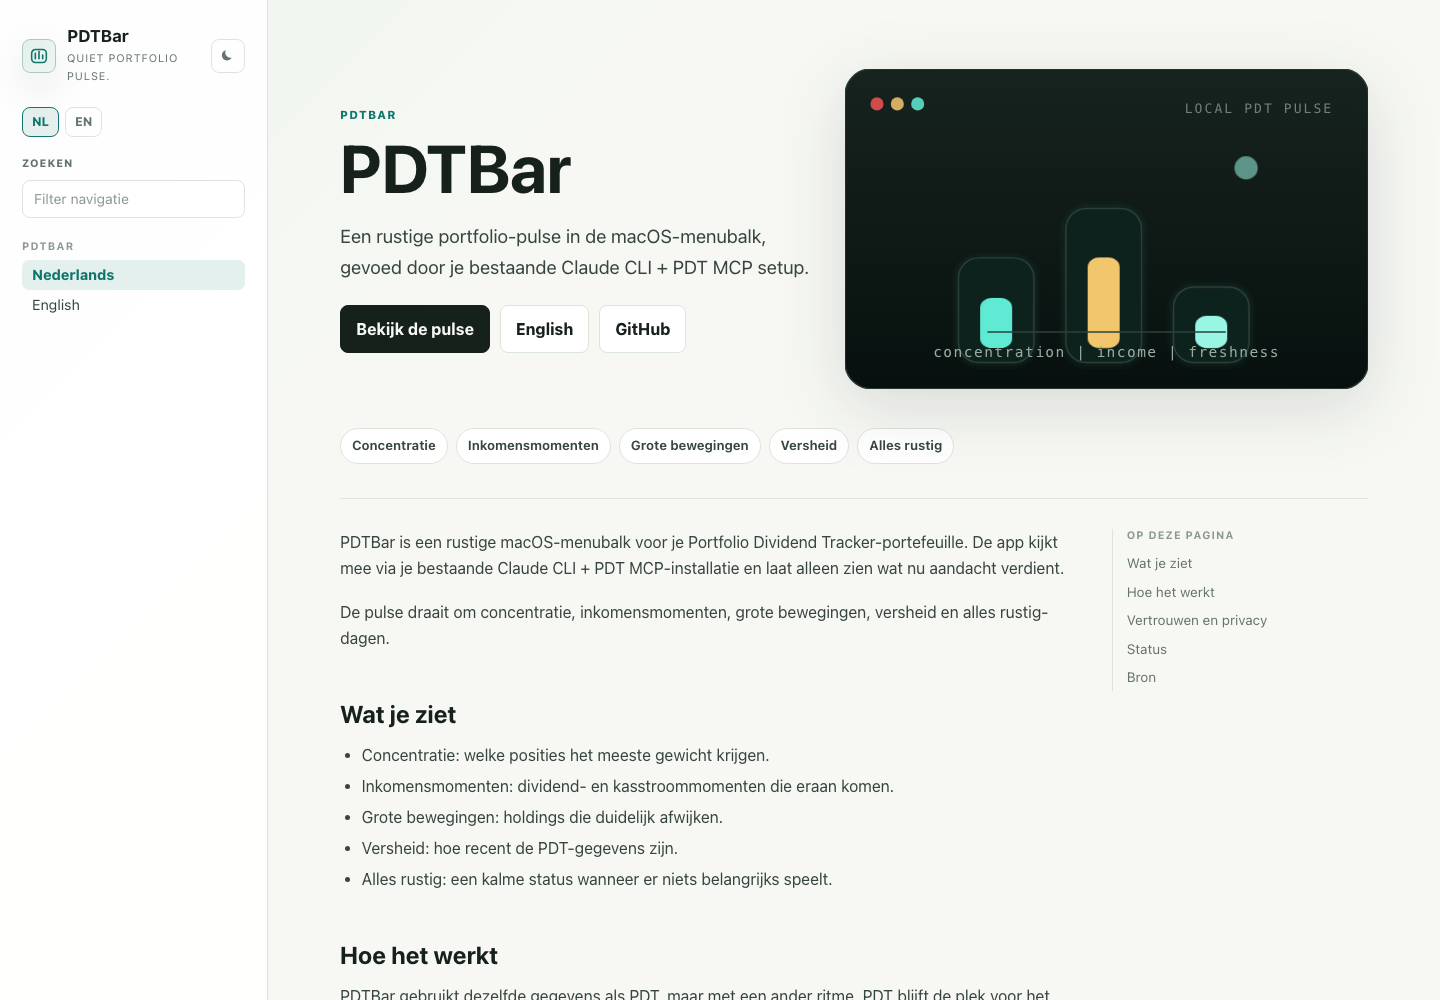
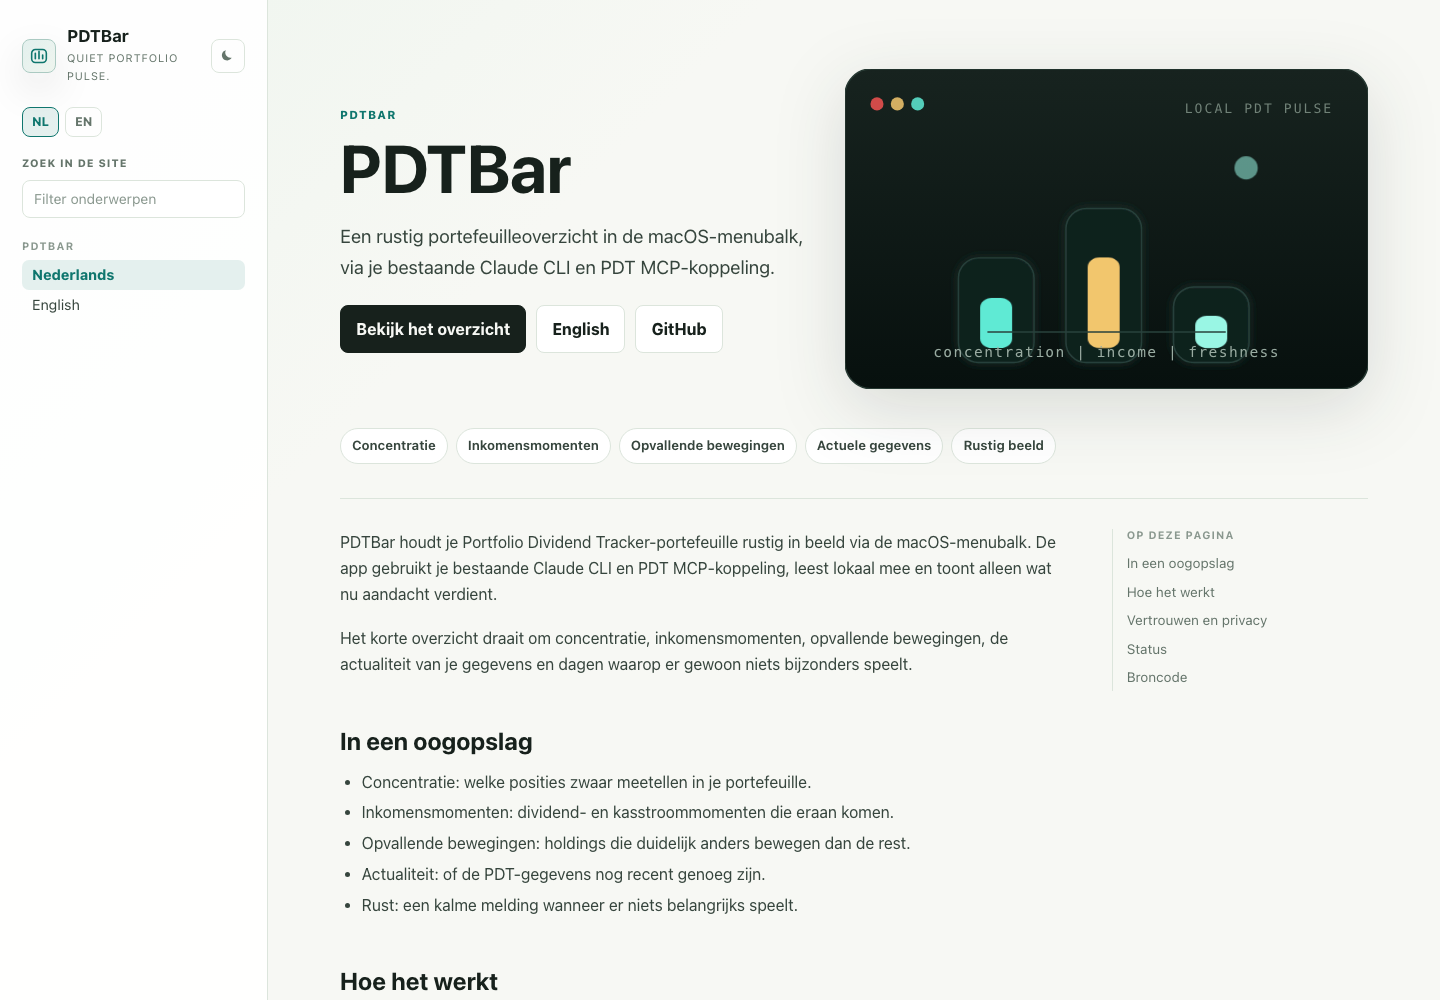
docs: naturalize Dutch docs-site copy

diff --git a/docs/public/index.nl.md b/docs/public/index.nl.md
@@ -1,51 +1,51 @@
 ---
-summary: "Publieke Nederlandse startpagina voor de PDTBar docs-site."
+summary: "Publieke Nederlandstalige startpagina voor de PDTBar docs-site."
 read_when:
   - Updating the public docs-site copy
 title: "PDTBar"
 lang: "nl"
 permalink: "/"
-description: "PDTBar is een rustige macOS-menubalk voor Portfolio Dividend Tracker-portefeuilles."
+description: "PDTBar houdt je Portfolio Dividend Tracker-portefeuille rustig in beeld via de macOS-menubalk."
 ---
 
 # PDTBar
 
-PDTBar is een rustige macOS-menubalk voor je Portfolio Dividend Tracker-portefeuille. De app kijkt mee via je bestaande Claude CLI + PDT MCP-installatie en laat alleen zien wat nu aandacht verdient.
+PDTBar houdt je Portfolio Dividend Tracker-portefeuille rustig in beeld via de macOS-menubalk. De app gebruikt je bestaande Claude CLI en PDT MCP-koppeling, leest lokaal mee en toont alleen wat nu aandacht verdient.
 
-De pulse draait om concentratie, inkomensmomenten, grote bewegingen, versheid en alles rustig-dagen.
+Het korte overzicht draait om concentratie, inkomensmomenten, opvallende bewegingen, de actualiteit van je gegevens en dagen waarop er gewoon niets bijzonders speelt.
 
-## Wat je ziet
+## In een oogopslag
 
-- Concentratie: welke posities het meeste gewicht krijgen.
+- Concentratie: welke posities zwaar meetellen in je portefeuille.
 - Inkomensmomenten: dividend- en kasstroommomenten die eraan komen.
-- Grote bewegingen: holdings die duidelijk afwijken.
-- Versheid: hoe recent de PDT-gegevens zijn.
-- Alles rustig: een kalme status wanneer er niets belangrijks speelt.
+- Opvallende bewegingen: holdings die duidelijk anders bewegen dan de rest.
+- Actualiteit: of de PDT-gegevens nog recent genoeg zijn.
+- Rust: een kalme melding wanneer er niets belangrijks speelt.
 
 ## Hoe het werkt
 
-PDTBar gebruikt dezelfde gegevens als PDT, maar met een ander ritme. PDT blijft de plek voor het volledige dashboard. PDTBar woont in de menubalk en geeft een korte pulse: de twee of drie feiten die je anders zelf zou moeten zoeken.
+PDTBar gebruikt dezelfde gegevens als PDT, maar met een andere rol. PDT blijft de plek voor het volledige dashboard. PDTBar zit in de menubalk en geeft je een korte stand van zaken: de twee of drie feiten die je anders zelf uit het dashboard zou halen.
 
-De huidige productlijn is Claude-first:
+Op dit moment werkt PDTBar via Claude:
 
 ```text
-open PDTBar
-check Claude CLI login
-check PDT MCP server
-fetch read-only PDT data
-show the portfolio pulse
+PDTBar starten
+Claude CLI-login controleren
+PDT MCP-server controleren
+PDT-gegevens alleen-lezen ophalen
+kort portefeuilleoverzicht tonen
 ```
 
-Als de setup ontbreekt, biedt PDTBar `Log in with Claude` en `Check again`. Dagelijks gebruik vraagt geen terminalcommando's.
+Als er nog iets ontbreekt, toont PDTBar `Log in with Claude` en `Check again`. Voor dagelijks gebruik hoef je geen terminalcommando's te draaien.
 
 ## Vertrouwen en privacy
 
-PDTBar is lokaal en standaard alleen-lezen. De app plaatst geen orders, verplaatst geen geld, uploadt geen portefeuille naar een eigen backend, en geeft geen financieel advies. De pressure engine rangschikt feiten en veranderingen; jij beslist wat ze betekenen.
+PDTBar werkt lokaal en is standaard alleen-lezen. De app plaatst geen orders, verplaatst geen geld, uploadt je portefeuille niet naar een eigen backend en geeft geen financieel advies. De app zet feiten en veranderingen op volgorde; jij bepaalt wat je ermee doet.
 
 ## Status
 
-PDTBar is in actieve ontwikkeling. Fixturemodus bestaat voor ontwikkeling en smoke-tests, maar echte portfolio-updates lopen via de lokale Claude CLI + PDT MCP-route.
+PDTBar is in actieve ontwikkeling. De fixturemodus is alleen bedoeld voor ontwikkeling en smoke-tests; echte portefeuille-updates lopen via de lokale Claude CLI en PDT MCP-koppeling.
 
-## Bron
+## Broncode
 
 De broncode staat op [GitHub](https://github.com/BramVR/pdtbar).